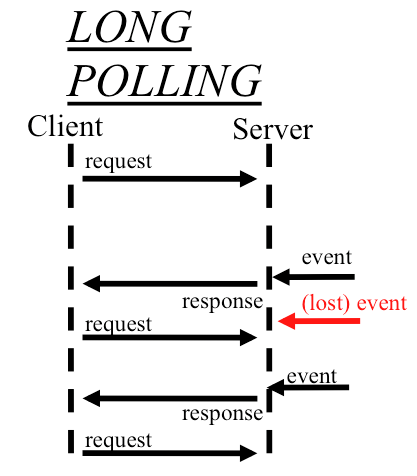
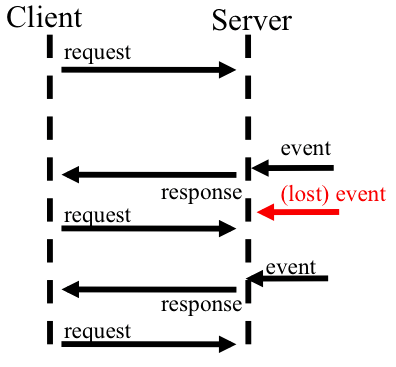
Pimp Polling

diff --git a/public/index.html b/public/index.html
@@ -742,6 +742,7 @@
 
 </section>
 
+<<<<<<< HEAD
 <section  class="slide" id="">
   <h2>Polling</h2>
 
@@ -764,8 +765,37 @@
       </tr>
     </table>
   </pre>
+=======
+<section  class="slide" id="polling">
+	<h2>Polling</h2>
+
+	<pre>
+		<img src="images/Polling.png" alt="Polling" width="407" height="464">
+	</pre>
+>>>>>>> Pimp Polling
 
 </section>
+
+<section  class="slide" id="longpolling">
+	<h2>Long Polling</h2>
+	<pre>
+		<img src="images/LongPolling.png" alt="LongPolling" width="417" height="476">
+	</pre>
+
+</section>
+
+<section  class="slide" id="polling_facts">
+	<h2>WebSockets</h2>
+				
+	<ul>
+		<li>Stateless</li>
+		<li>Traffic</li>
+		<li>Useless Information "No Changes"</li>
+	</ul>
+
+
+</section>
+
 
 <section  class="slide" id="about">
   <h2>WebSockets</h2>
